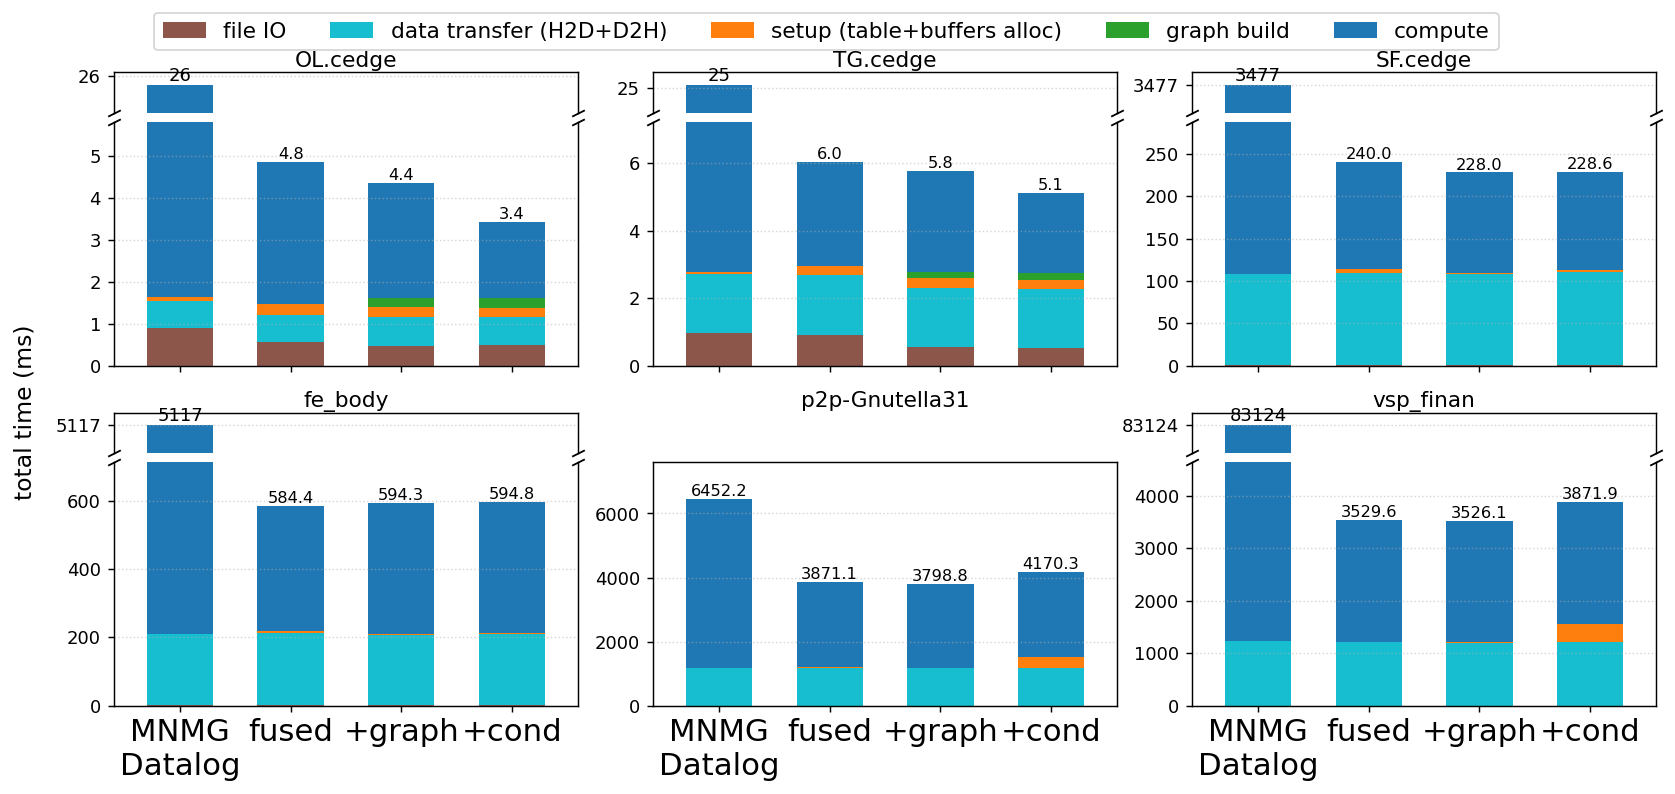
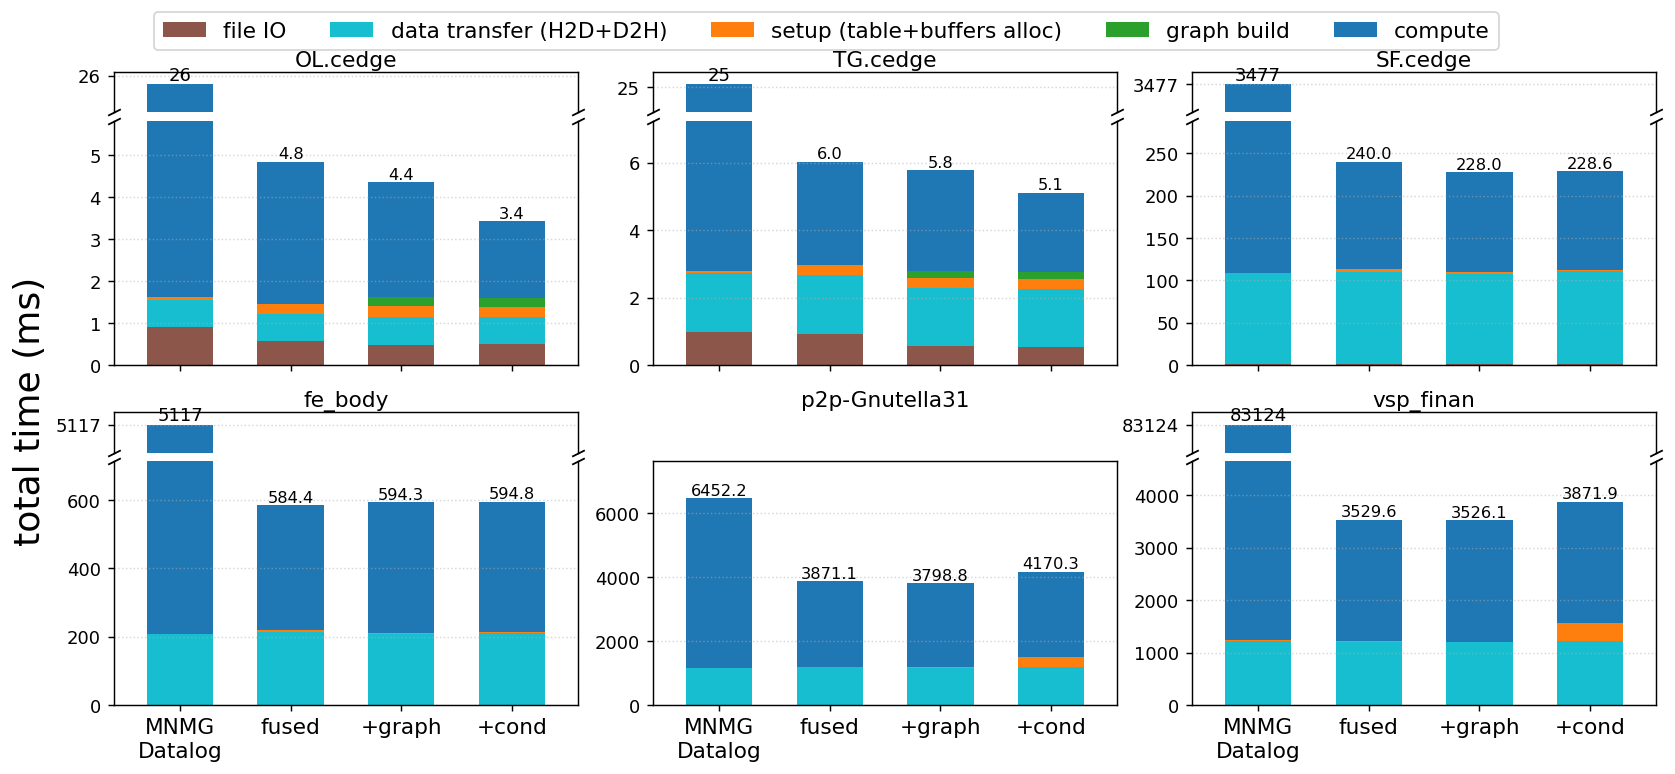
breakdown chart: smaller x-axis labels, larger y-axis label

diff --git a/tc_benchmark/tests/plot_results.py b/tc_benchmark/tests/plot_results.py
@@ -243,12 +243,12 @@ def plot_breakdown(datasets, rows, outpath, versions):
         # x-axis tags only on the bottom dataset row (identical across rows).
         bot.set_xticks(xs)
         if dr == drow - 1:
-            bot.set_xticklabels([SHORT[v] for v in vers], fontsize=17)
+            bot.set_xticklabels([SHORT[v] for v in vers], fontsize=12)
         else:
             bot.set_xticklabels([])
 
     # shared y-axis label, pulled close to the axes
-    fig.supylabel("total time (ms)", fontsize=13, x=0.015)
+    fig.supylabel("total time (ms)", fontsize=20, x=0.015)
     # legend just above the panels
     if legend_handles:
         fig.legend(*legend_handles, loc="lower center", ncol=len(PHASES),
